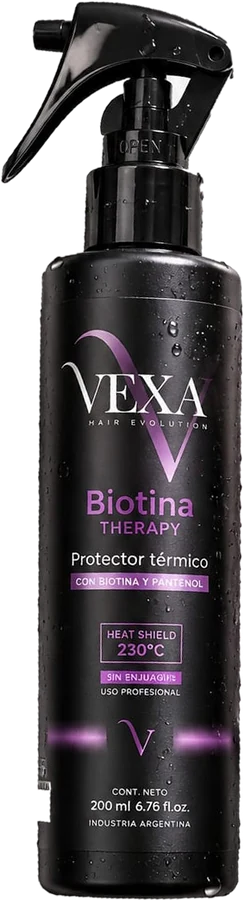
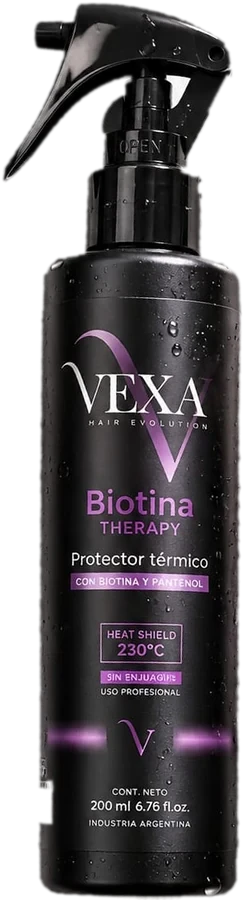
Línea Colágeno Anti Age, protectores con el estilo del catálogo y crédito a WhatsApp
- Colágeno Anti Age pasa a ser una línea completa con su página (/linea/colageno-anti-age),
  foto principal 4:5 y tarjeta de estudio (fondo negro y brillo dorado) en "Las líneas"
- Inicio con seis líneas: grilla 2 + 4 en PC, textos actualizados y menú ☰ hasta 1180px
- Sección "Nuevo": fotos del catálogo y "Comprar" lleva a cada protector en el catálogo
- Protectores en catálogo y páginas de línea como el resto: frasco sin fondo sobre el brillo
  de la línea (recortes con el borde claro limpio)
- "Desarrollado por Fabrizio Turdó" abre su WhatsApp con un mensaje prearmado

diff --git a/src/styles/landing.css b/src/styles/landing.css
@@ -118,7 +118,7 @@
 .site-nav .site-nav-cta:hover { color: #0a0a0a; background: #fff; }
 .site-burger { display: none; }
 
-@media (max-width: 1060px) {
+@media (max-width: 1180px) {
   .site-burger {
     display: flex;
     flex-direction: column;
@@ -255,13 +255,14 @@
 .section-head p { color: var(--muted); font-size: 17px; }
 
 /* === Lines grid === */
+/* PC: dos tarjetas anchas arriba y cuatro abajo */
 .lines-grid {
   display: grid;
-  grid-template-columns: repeat(6, 1fr);
+  grid-template-columns: repeat(12, 1fr);
   gap: 16px;
 }
 .line-card {
-  grid-column: span 2;
+  grid-column: span 3;
   position: relative;
   border-radius: var(--radius);
   overflow: hidden;
@@ -269,7 +270,7 @@
   background: #000;
   isolation: isolate;
 }
-.line-card:nth-child(1), .line-card:nth-child(2) { grid-column: span 3; aspect-ratio: 6 / 5; }
+.line-card:nth-child(1), .line-card:nth-child(2) { grid-column: span 6; aspect-ratio: 6 / 5; }
 .line-card img {
   position: absolute;
   inset: 0;
@@ -283,6 +284,8 @@
 .line-card:hover img { transform: scale(1.05); }
 /* Tarjetas anchas: la foto (4:5) entera a la derecha, fundida con un brillo del color de la línea */
 .line-card.is-split { background: radial-gradient(70% 90% at 75% 45%, color-mix(in srgb, var(--accent) 30%, #000), #000 75%); }
+.line-card:nth-child(n+3).is-split { background: #000; }
+.line-card:nth-child(n+3).is-split img { left: 0; width: 100%; -webkit-mask-image: none; mask-image: none; }
 .line-card.is-split img {
   left: auto;
   width: auto;
@@ -656,9 +659,12 @@
   .section { padding: 80px 20px; }
   .lines-grid { grid-template-columns: 1fr 1fr; }
   .line-card, .line-card:nth-child(1), .line-card:nth-child(2) { grid-column: span 1; aspect-ratio: 4 / 5; }
-  .line-card:nth-child(1) { grid-column: span 2; aspect-ratio: 6 / 5; }
-  /* En tablet solo la primera tarjeta es ancha; la segunda vuelve a la foto completa */
+  /* Tablet: la primera y la última son anchas, las del medio de a dos */
+  .line-card:nth-child(1), .line-card:nth-child(6) { grid-column: span 2; aspect-ratio: 6 / 5; }
+  .line-card:nth-child(2).is-split { background: #000; }
   .line-card:nth-child(2).is-split img { left: 0; width: 100%; -webkit-mask-image: none; mask-image: none; }
+  .line-card:nth-child(6).is-split { background: radial-gradient(70% 90% at 75% 45%, color-mix(in srgb, var(--accent) 30%, #000), #000 75%); }
+  .line-card:nth-child(6).is-split img { left: auto; width: auto; -webkit-mask-image: linear-gradient(90deg, transparent 0, #000 28%); mask-image: linear-gradient(90deg, transparent 0, #000 28%); }
   .ritual { grid-template-columns: 1fr; }
   .finder-result { padding: 32px 24px; }
   .finder-media { height: 260px; }
@@ -686,8 +692,9 @@
   .hero-showcase { margin: 0 -16px; }
   .section { padding: 72px 16px; }
   .lines-grid { grid-template-columns: 1fr; }
-  .line-card, .line-card:nth-child(1), .line-card:nth-child(2) { grid-column: span 1; aspect-ratio: 4 / 5; }
-  .line-card.is-split img { left: 0; width: 100%; -webkit-mask-image: none; mask-image: none; }
+  .line-card, .line-card:nth-child(1), .line-card:nth-child(2), .line-card:nth-child(6) { grid-column: span 1; aspect-ratio: 4 / 5; }
+  .line-card.is-split, .line-card:nth-child(6).is-split { background: #000; }
+  .line-card.is-split img, .line-card:nth-child(6).is-split img { left: 0; width: 100%; -webkit-mask-image: none; mask-image: none; }
   .tiers { grid-template-columns: 1fr; }
   .site-footer-inner { grid-template-columns: 1fr; }
   .site-footer-brand { grid-column: auto; }

diff --git a/src/data/lineas.js b/src/data/lineas.js
@@ -95,25 +95,43 @@ export const LINEAS_INFO = [
     set: 'band-extra',
     beneficios: ['Fija el color', 'Sella la fibra', 'Hidratación profunda', 'Desenredante'],
   },
+  {
+    // Por ahora solo tiene protector térmico; sin pH en la etiqueta
+    slug: 'colageno-anti-age',
+    nombre: 'Colágeno Anti Age',
+    key: 'Colágeno Anti Age',
+    color: '#C9A24B',
+    soft: '#3a2f12',
+    necesidad: 'Protección térmica',
+    para: 'Todo tipo de cabello · antes del secador, la planchita o la buclera',
+    claim: 'Protege del calor hasta 230 °C con colágeno y elastina.',
+    descripcion:
+      'Protector térmico anti age con colágeno y elastina. Protege el cabello del calor hasta 230 °C, repara la fibra y potencia su brillo. Sin enjuague y de uso profesional, en presentaciones de 200 y 100 ml.',
+    ph: null,
+    hero: 'glow-colageno',
+    // Foto de estudio (fondo negro y brillo dorado) solo para su tarjeta en "Las líneas" del inicio
+    card: 'card-colageno',
+    destacado: 'colageno-protector',
+    set: 'promo-colageno',
+    beneficios: ['Heat shield 230 °C', 'Colágeno y elastina', 'Brillo y suavidad', 'Sin enjuague'],
+  },
 ];
 
 export function getLinea(slug) {
   return LINEAS_INFO.find((l) => l.slug === slug);
 }
 
-// Líneas que solo tienen protector térmico: aparecen en el catálogo pero no tienen página propia
-export const LINEAS_EXTRA = [
-  {
-    nombre: 'Colágeno Anti Age',
-    key: 'Colágeno Anti Age',
-    color: '#C9A24B',
-    soft: '#3a2f12',
-    necesidad: 'Protección térmica',
-    claim: 'Protege del calor hasta 230 °C con colágeno y elastina.',
-    destacado: 'colageno-protector',
-  },
-];
+// En las listas de productos (catálogo y páginas de línea) los protectores se ven como el resto:
+// el frasco sin fondo sobre el brillo del color de la línea, aunque tengan cargada una foto con fondo
+const RECORTES = {
+  'Protector térmico Biotina Therapy': 'biotina-protector',
+  'Protector térmico Colágeno Anti Age': 'colageno-protector',
+};
+export function conRecorte(p) {
+  const recorte = RECORTES[p.producto];
+  return recorte ? { ...p, image_url: img(recorte), foto: false } : p;
+}
 
 export function getLineaByKey(key) {
-  return LINEAS_INFO.find((l) => l.key === key) || LINEAS_EXTRA.find((l) => l.key === key);
+  return LINEAS_INFO.find((l) => l.key === key);
 }

diff --git a/src/pages/Landing.jsx b/src/pages/Landing.jsx
@@ -134,7 +134,7 @@ export default function Landing() {
               su <em>tratamiento</em>.
             </h1>
             <p className="hero-lead">
-              Vexa Hair Evolution reúne cinco líneas de shampoo, máscara y ampollas formuladas por pH,
+              Vexa Hair Evolution reúne seis líneas de shampoo, máscara, ampollas y protector térmico formuladas por pH,
               para resolver cada necesidad del cabello en el salón y en casa.
             </p>
             <div className="hero-ctas">
@@ -160,7 +160,7 @@ export default function Landing() {
       <section className="section" id="lineas">
         <div className="section-head">
           <span className="eyebrow">Las líneas</span>
-          <h2>Cinco fórmulas, un mismo estándar profesional.</h2>
+          <h2>Seis fórmulas, un mismo estándar profesional.</h2>
           <p>Cada línea tiene su color, su pH y su objetivo. Elegí por necesidad y combiná shampoo, máscara y ampollas.</p>
         </div>
 
@@ -169,12 +169,12 @@ export default function Landing() {
             <Link
               to={`/linea/${l.slug}`}
               key={l.slug}
-              className={`line-card ${i === 0 ? "is-wide" : ""} ${i < 2 ? "is-split" : ""}`}
+              className={`line-card ${i === 0 ? "is-wide" : ""} ${i < 2 || i === 5 ? "is-split" : ""}`}
               style={{ "--accent": l.color }}
             >
-              <img src={img(l.hero)} alt={l.nombre} loading="lazy" />
+              <img src={img(l.card || l.hero)} alt={l.nombre} loading="lazy" />
               <div className="line-card-body">
-                <span className="line-card-ph">pH {l.ph}</span>
+                <span className="line-card-ph">{l.ph ? `pH ${l.ph}` : l.necesidad}</span>
                 <h3>{l.nombre}</h3>
                 <p>{l.claim}</p>
                 <span className="line-card-more">Descubrir →</span>

diff --git a/src/pages/Linea.jsx b/src/pages/Linea.jsx
@@ -2,7 +2,7 @@ import { useEffect } from "react";
 import { Link, Navigate, useParams } from "react-router-dom";
 import { SiteHeader, SiteFooter, WA_URL } from "../components/SiteChrome";
 import ProductImage from "../components/ProductImage";
-import { LINEAS_INFO, getLinea, img } from "../data/lineas";
+import { LINEAS_INFO, getLinea, img, conRecorte } from "../data/lineas";
 import { formatPrice } from "../data/store";
 import { useApp } from "../context/AppContext";
 import "../styles/landing.css";
@@ -16,7 +16,7 @@ export default function Linea() {
 
   if (!linea) return <Navigate to="/" replace />;
 
-  const productos = products.filter((p) => p.linea === linea.key && p.active);
+  const productos = products.filter((p) => p.linea === linea.key && p.active).map(conRecorte);
   const idx = LINEAS_INFO.indexOf(linea);
   const next = LINEAS_INFO[(idx + 1) % LINEAS_INFO.length];
 
@@ -29,7 +29,7 @@ export default function Linea() {
         <div className="line-hero-inner">
           <div className="line-hero-copy">
             <Link to="/" className="back-link">← Todas las líneas</Link>
-            <span className="eyebrow">{linea.necesidad} · pH {linea.ph}</span>
+            <span className="eyebrow">{linea.necesidad}{linea.ph ? ` · pH ${linea.ph}` : ""}</span>
             <h1>{linea.nombre}</h1>
             <p className="hero-lead">{linea.descripcion}</p>
             <ul className="tag-list">

diff --git a/src/pages/Catalogo.jsx b/src/pages/Catalogo.jsx
@@ -4,7 +4,7 @@ import { createPortal } from "react-dom";
 import { useApp } from "../context/AppContext";
 import { formatPrice, SELLER_PHONE, LINEAS, TIPOS } from "../data/store";
 import { buildCombos, computeCart } from "../data/pricing";
-import { img, getLineaByKey } from "../data/lineas";
+import { img, getLineaByKey, conRecorte } from "../data/lineas";
 import ProductImage from "../components/ProductImage";
 import ProductShowcase from "../components/ProductShowcase";
 import { SiteFooter } from "../components/SiteChrome";
@@ -512,7 +512,7 @@ export default function Catalogo() {
     const lineaOk = lineaFilter === "todas" || p.linea === lineaFilter;
     const tipoOk = tipoFilter === "todos" || p.tipo === tipoFilter;
     return lineaOk && tipoOk;
-  }), [products, lineaFilter, tipoFilter]);
+  }).map(conRecorte), [products, lineaFilter, tipoFilter]);
 
   const tiposDisponibles = TIPOS.filter(t => products.some(p => p.active && p.tipo === t));
 

diff --git a/src/data/localProducts.js b/src/data/localProducts.js
@@ -150,17 +150,17 @@ export const LANZAMIENTOS = [
   {
     nombre: 'Protector térmico Biotina Therapy',
     detalle: 'Con biotina y pantenol · Heat shield 230 °C · 100 y 200 ml',
-    image: 'promo-biotina-protector',
+    image: 'biotina-protector-foto',
     color: '#B430DE',
     disponible: true,
-    link: '/catalogo?tipo=Protector%20t%C3%A9rmico',
+    link: '/catalogo?linea=Biotina%20Therapy&tipo=Protector%20t%C3%A9rmico',
   },
   {
     nombre: 'Protector térmico Colágeno Anti Age',
     detalle: 'Con colágeno y elastina · Brillo y suavidad · 100 y 200 ml',
-    image: 'promo-colageno',
+    image: 'colageno-protector-foto',
     color: '#C9A24B',
     disponible: true,
-    link: '/catalogo?tipo=Protector%20t%C3%A9rmico',
+    link: '/catalogo?linea=Col%C3%A1geno%20Anti%20Age&tipo=Protector%20t%C3%A9rmico',
   },
 ];

diff --git a/src/components/SiteChrome.jsx b/src/components/SiteChrome.jsx
@@ -8,9 +8,11 @@ export const WA_URL = `https://wa.me/${SELLER_PHONE}?text=${encodeURIComponent(
   "Hola! Quiero información para comprar Vexa por mayor."
 )}`;
 
-// Crédito del desarrollador en el pie de página
-const DEV_NAME = "Fabrizio Turdo";
-const DEV_URL = "https://github.com/FabrizioTurdo-Dev";
+// Crédito del desarrollador en el pie de página: abre su WhatsApp con un mensaje ya escrito
+const DEV_NAME = "Fabrizio Turdó";
+const DEV_URL = `https://wa.me/5491154922800?text=${encodeURIComponent(
+  "¡Hola, Fabrizio! Vi el sitio de Vexa y quiero una página para mi negocio."
+)}`;
 
 export function scrollToId(id) {
   document.getElementById(id)?.scrollIntoView({ behavior: "smooth", block: "start" });
